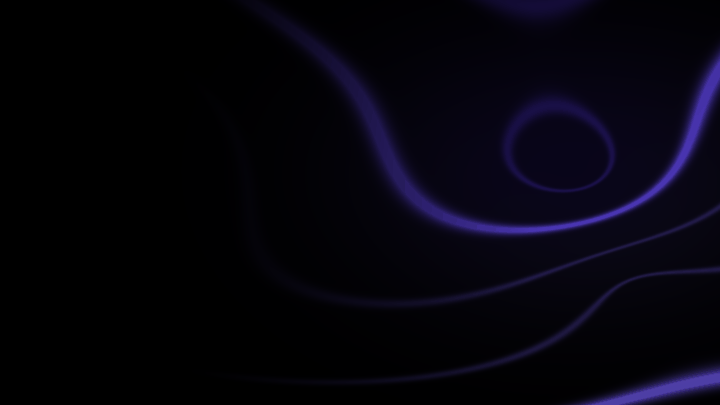
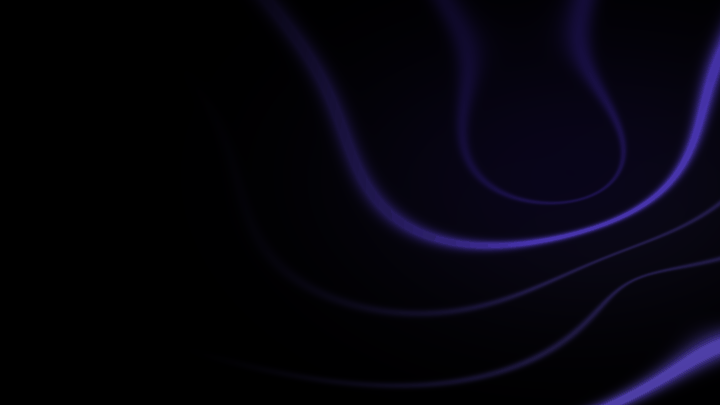
Make Axym background loop continuous

diff --git a/src/components/Navbar.tsx b/src/components/Navbar.tsx
@@ -20,14 +20,6 @@ const Navbar = () => {
             About
           </a>
           <a
-            href="https://github.com/Axym-Labs"
-            target="_blank"
-            rel="noopener noreferrer"
-            className="text-sm font-medium text-foreground/70 transition-colors hover:text-accent"
-          >
-            GitHub
-          </a>
-          <a
             href="https://huggingface.co/Axym-Labs"
             target="_blank"
             rel="noopener noreferrer"
@@ -36,6 +28,14 @@ const Navbar = () => {
           >
             <span className="sm:hidden">HF</span>
             <span className="hidden sm:inline">Hugging Face</span>
+          </a>
+          <a
+            href="https://github.com/Axym-Labs"
+            target="_blank"
+            rel="noopener noreferrer"
+            className="text-sm font-medium text-foreground/70 transition-colors hover:text-accent"
+          >
+            GitHub
           </a>
           <a href="mailto:[email redacted]" className="text-sm font-medium text-foreground/70 transition-colors hover:text-accent">
             Contact

diff --git a/src/components/Hero.tsx b/src/components/Hero.tsx
@@ -6,7 +6,7 @@ const Hero = () => (
       width={720}
       height={405}
       fetchPriority="high"
-      src="/backgrounds/interference-caustics.gif"
+      src="/backgrounds/interference-caustics.webp"
       className="pointer-events-none absolute inset-0 h-full w-full object-cover motion-reduce:hidden"
     />
     <img